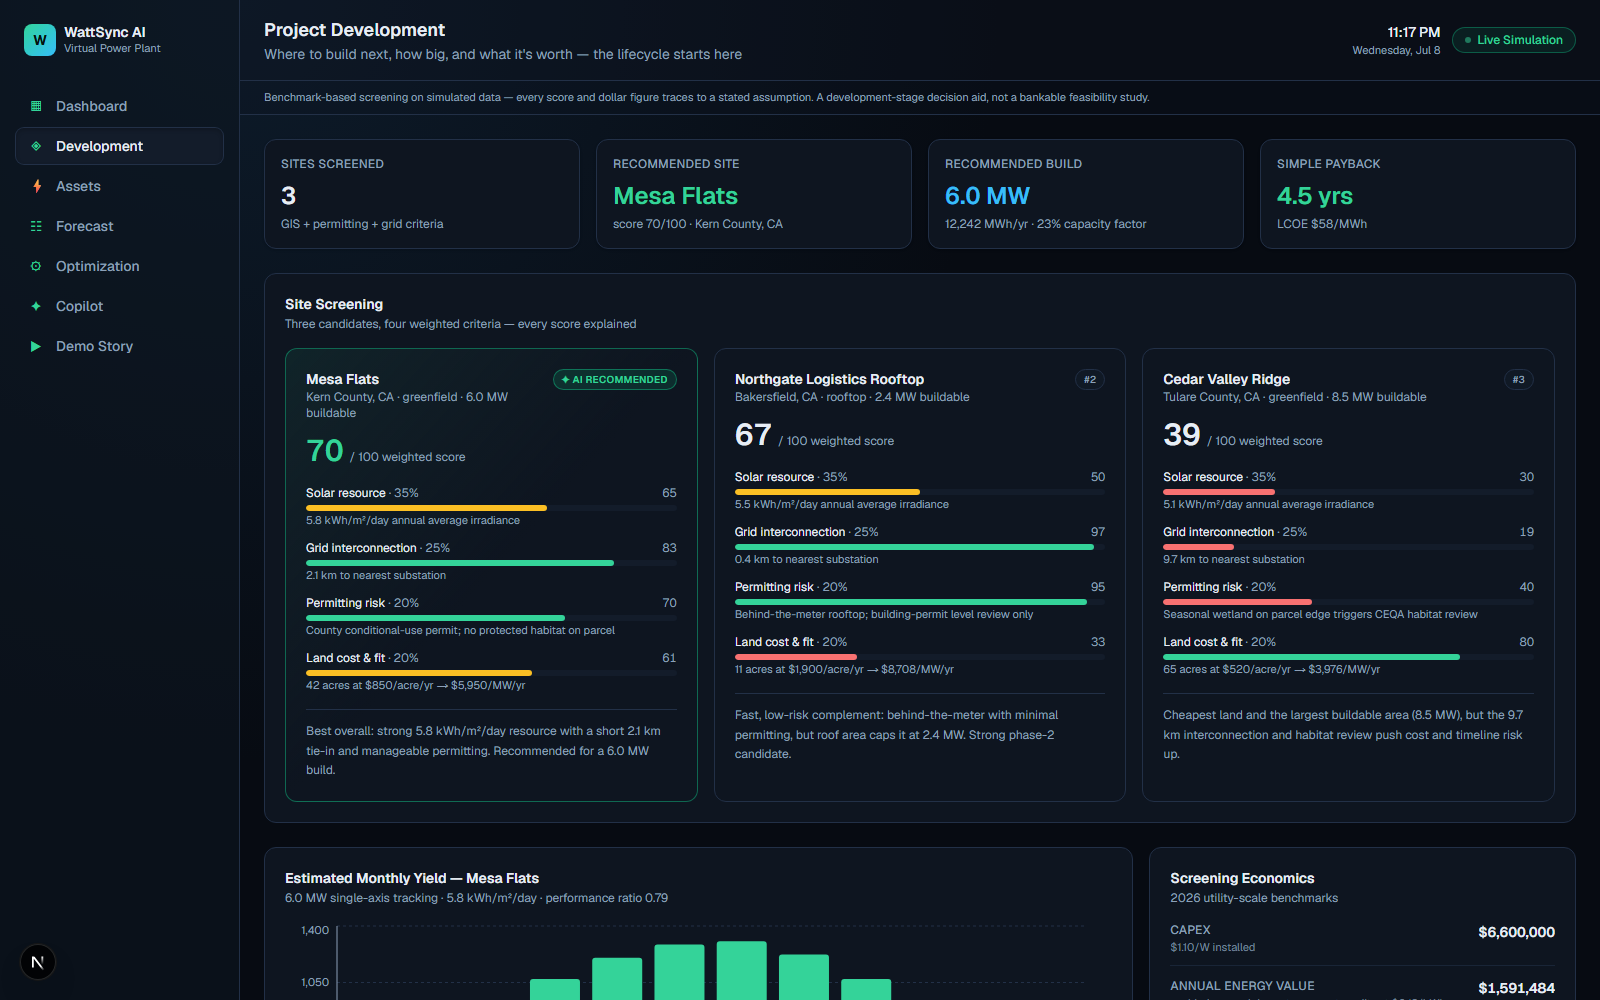
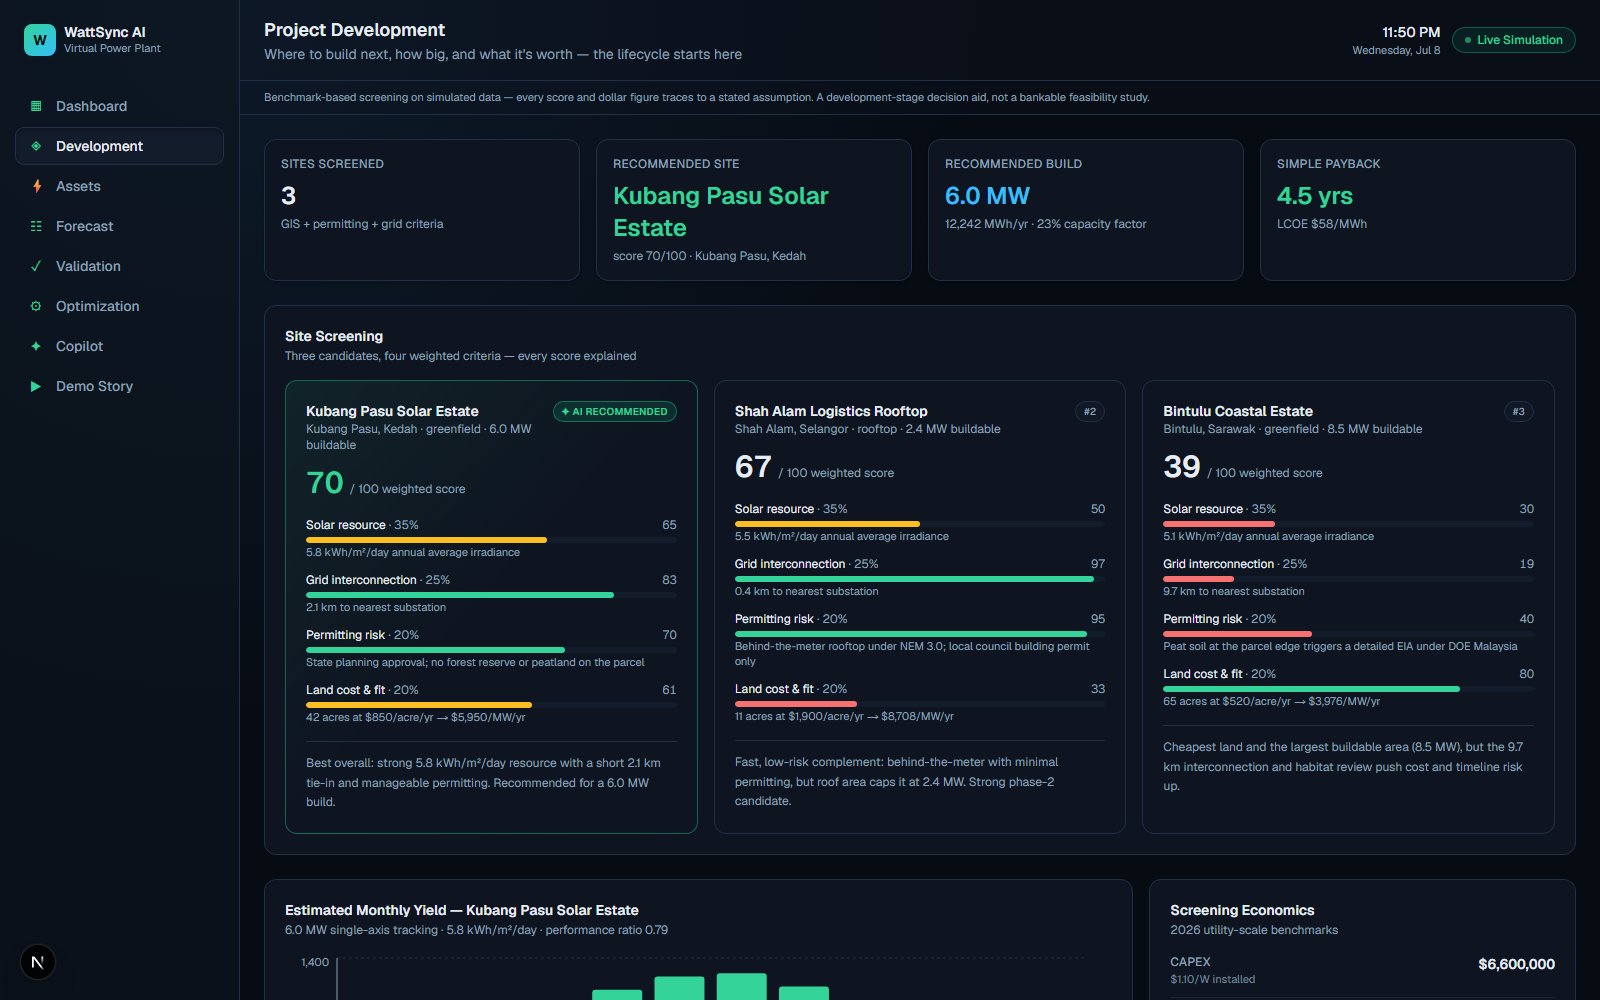
Localize to Malaysia: fleet, sites, and narratives (calculations unchanged)
Reframe the platform as Malaysia-first for MAIC Nexus 2026. Only names,
locations, descriptions, and regulatory narratives change — every capacity,
score, and dollar figure is untouched, so all calculations and business
logic are identical.

- Fleet: Kedah Large Scale Solar Park (Kuala Ketil), Kudat Wind Pilot
  Project (Sabah), Bakun Hydro Plant (Sarawak), Cyberjaya BESS (Selangor),
  Putrajaya EV Fast Charging Hub, TRX Smart Commercial District (KL)
- Development sites: Kubang Pasu (Kedah), Shah Alam rooftop (Selangor),
  Bintulu Coastal (Sarawak) — with local frameworks (NEM 3.0, DOE EIA, TNB)
- Copilot battery answer now uses the asset's real name dynamically
- README: 'Built for Malaysia' section + renewable-mix framing (solar/hydro/
  BESS/EV/smart buildings primary; small wind + biomass secondary)
- Refreshed assets, development, and dashboard screenshots

diff --git a/lib/development/sites.ts b/lib/development/sites.ts
@@ -3,45 +3,45 @@ import { CandidateSite, DevelopmentStage } from "./types";
 /**
  * Candidate sites under screening for the fleet's next solar asset. Static demo data
  * with realistic attributes — in production these come from GIS layers (irradiance
- * rasters, parcel data, substation maps) and county permitting records.
+ * rasters, parcel data, TNB/SESB substation maps) and state + DOE permitting records.
  */
 export const CANDIDATE_SITES: CandidateSite[] = [
   {
-    id: "site-mesa-flats",
-    name: "Mesa Flats",
-    location: "Kern County, CA",
+    id: "site-kubang-pasu",
+    name: "Kubang Pasu Solar Estate",
+    location: "Kubang Pasu, Kedah",
     kind: "greenfield",
     irradiance: 5.8,
     acres: 42,
     substationKm: 2.1,
     permitting: "moderate",
-    permittingNote: "County conditional-use permit; no protected habitat on parcel",
+    permittingNote: "State planning approval; no forest reserve or peatland on the parcel",
     landCostPerAcreYr: 850,
     recommendedCapacityMw: 6.0,
   },
   {
-    id: "site-northgate-roof",
-    name: "Northgate Logistics Rooftop",
-    location: "Bakersfield, CA",
+    id: "site-shah-alam-roof",
+    name: "Shah Alam Logistics Rooftop",
+    location: "Shah Alam, Selangor",
     kind: "rooftop",
     irradiance: 5.5,
     acres: 11,
     substationKm: 0.4,
     permitting: "low",
-    permittingNote: "Behind-the-meter rooftop; building-permit level review only",
+    permittingNote: "Behind-the-meter rooftop under NEM 3.0; local council building permit only",
     landCostPerAcreYr: 1900,
     recommendedCapacityMw: 2.4,
   },
   {
-    id: "site-cedar-valley",
-    name: "Cedar Valley Ridge",
-    location: "Tulare County, CA",
+    id: "site-bintulu-coastal",
+    name: "Bintulu Coastal Estate",
+    location: "Bintulu, Sarawak",
     kind: "greenfield",
     irradiance: 5.1,
     acres: 65,
     substationKm: 9.7,
     permitting: "high",
-    permittingNote: "Seasonal wetland on parcel edge triggers CEQA habitat review",
+    permittingNote: "Peat soil at the parcel edge triggers a detailed EIA under DOE Malaysia",
     landCostPerAcreYr: 520,
     recommendedCapacityMw: 8.5,
   },
@@ -52,12 +52,12 @@ export const DEVELOPMENT_STAGES: DevelopmentStage[] = [
   {
     name: "Site control & permitting",
     window: "Months 0–6",
-    detail: "Option agreement on the parcel, county conditional-use permit, environmental screening.",
+    detail: "Option agreement on the parcel, state land-use and planning approval, DOE environmental screening.",
   },
   {
     name: "Interconnection study",
     window: "Months 3–12",
-    detail: "Utility feasibility + system impact studies for the 2.1 km tie-in to the Mesa substation.",
+    detail: "TNB feasibility + system impact studies for the 2.1 km tie-in to the nearest grid substation.",
   },
   {
     name: "EPC procurement & financing",

diff --git a/lib/simulation/assets.ts b/lib/simulation/assets.ts
@@ -5,9 +5,9 @@ import { Asset } from "./types";
 export const ASSETS: Asset[] = [
   {
     id: "solar-01",
-    name: "Riverbend Solar Farm",
+    name: "Kedah Large Scale Solar Park",
     type: "solar_farm",
-    location: "Riverbend, CA",
+    location: "Kuala Ketil, Kedah",
     capacityKw: 4200,
     currentOutputKw: 0,
     healthScore: 96,
@@ -15,9 +15,9 @@ export const ASSETS: Asset[] = [
   },
   {
     id: "wind-01",
-    name: "Highland Ridge Wind Turbine",
+    name: "Kudat Wind Pilot Project",
     type: "wind_turbine",
-    location: "Highland Ridge, CA",
+    location: "Kudat, Sabah",
     capacityKw: 2500,
     currentOutputKw: 0,
     healthScore: 91,
@@ -25,9 +25,9 @@ export const ASSETS: Asset[] = [
   },
   {
     id: "hydro-01",
-    name: "Clearwater Hydro Plant",
+    name: "Bakun Hydro Plant",
     type: "hydro_plant",
-    location: "Clearwater, CA",
+    location: "Belaga, Sarawak",
     capacityKw: 1800,
     currentOutputKw: 0,
     healthScore: 98,
@@ -35,9 +35,9 @@ export const ASSETS: Asset[] = [
   },
   {
     id: "battery-01",
-    name: "Central Battery Array",
+    name: "Cyberjaya Battery Energy Storage System",
     type: "battery_storage",
-    location: "Industrial Park East",
+    location: "Cyberjaya, Selangor",
     capacityKw: 1500,
     capacityKwh: 6000,
     currentOutputKw: 0,
@@ -46,9 +46,9 @@ export const ASSETS: Asset[] = [
   },
   {
     id: "ev-01",
-    name: "Park Ave EV Charging Hub",
+    name: "Putrajaya EV Fast Charging Hub",
     type: "ev_charging_station",
-    location: "Industrial Park West",
+    location: "Putrajaya",
     capacityKw: 900,
     currentOutputKw: 0,
     healthScore: 94,
@@ -56,9 +56,9 @@ export const ASSETS: Asset[] = [
   },
   {
     id: "building-01",
-    name: "Meridian Smart Building Complex",
+    name: "TRX Smart Commercial District",
     type: "smart_building",
-    location: "Downtown Campus",
+    location: "Tun Razak Exchange, Kuala Lumpur",
     capacityKw: 3000,
     currentOutputKw: 0,
     healthScore: 92,

diff --git a/lib/ai/copilot.ts b/lib/ai/copilot.ts
@@ -275,7 +275,7 @@ const INTENTS: { match: RegExp; answer: (ctx: CopilotContext, question: string) 
       const battery = ctx.assets.find((a) => a.type === "battery_storage");
       const alert = battery && ctx.alerts.find((al) => al.assetId === battery.id);
       return (
-        `The Central Battery Array is at ${Math.round(current.batterySocPercent)}% state of charge and currently ${flow}. ` +
+        `The ${battery?.name ?? "battery array"} is at ${Math.round(current.batterySocPercent)}% state of charge and currently ${flow}. ` +
         (rec ? `Next move: ${rec.action}` : "No battery action is scheduled — SOC is where the optimizer wants it.") +
         (alert ? ` Note: ${alert.cause}` : "")
       );

diff --git a/lib/development/engine.ts b/lib/development/engine.ts
@@ -136,7 +136,7 @@ export function getFeasibility(site: CandidateSite): FeasibilityReport {
 
 // --- VPP integration impact -----------------------------------------------------
 
-const EXISTING_SOLAR_CAPACITY_KW = 4200; // Riverbend Solar Farm
+const EXISTING_SOLAR_CAPACITY_KW = 4200; // Kedah Large Scale Solar Park
 const EXPORT_CREDIT_USD_PER_KWH = 0.08;
 
 /**

diff --git a/README.md b/README.md
@@ -13,9 +13,16 @@
 
 ---
 
+## Built for Malaysia 🇲🇾
+
+WattSync AI is a **Malaysia-first clean-energy platform**, modelled on Malaysia's own renewable ecosystem and the national push toward 70% renewable capacity by 2050. The demo fleet spans real Malaysian sites — a **Large Scale Solar (LSS)** park in Kedah, the **Bakun** hydro plant in Sarawak, a **Cyberjaya** battery energy storage system, **Putrajaya** EV fast charging, the **TRX** smart commercial district, and a **Kudat** small-wind pilot — with development screening across Kedah, Selangor, Sarawak and beyond, referencing local frameworks (TNB interconnection, DOE environmental screening, NEM 3.0).
+
+- **Primary mix:** Solar PV · Hydro · Battery Energy Storage · EV infrastructure · Smart buildings
+- **Secondary / emerging:** Small wind pilots (Kudat) · Biomass — the platform scales to these as the fleet grows
+
 ## The problem
 
-Industrial parks, campuses, and smart cities own solar farms, wind turbines, batteries, EV chargers, and smart buildings — but operate them as disconnected silos. Every asset behaves sensibly on its own, yet the system as a whole fails every evening: demand peaks exactly when solar collapses and grid power costs 3x. The result is avoidable on-peak imports, avoidable carbon, and avoidable cost — every single day.
+Industrial parks, campuses, and smart cities across Malaysia own solar farms, hydro, batteries, EV chargers, and smart buildings — but operate them as disconnected silos. Every asset behaves sensibly on its own, yet the system as a whole fails every evening: demand peaks exactly when solar collapses and grid power costs 3x. The result is avoidable on-peak imports, avoidable carbon, and avoidable cost — every single day.
 
 ## The solution
 